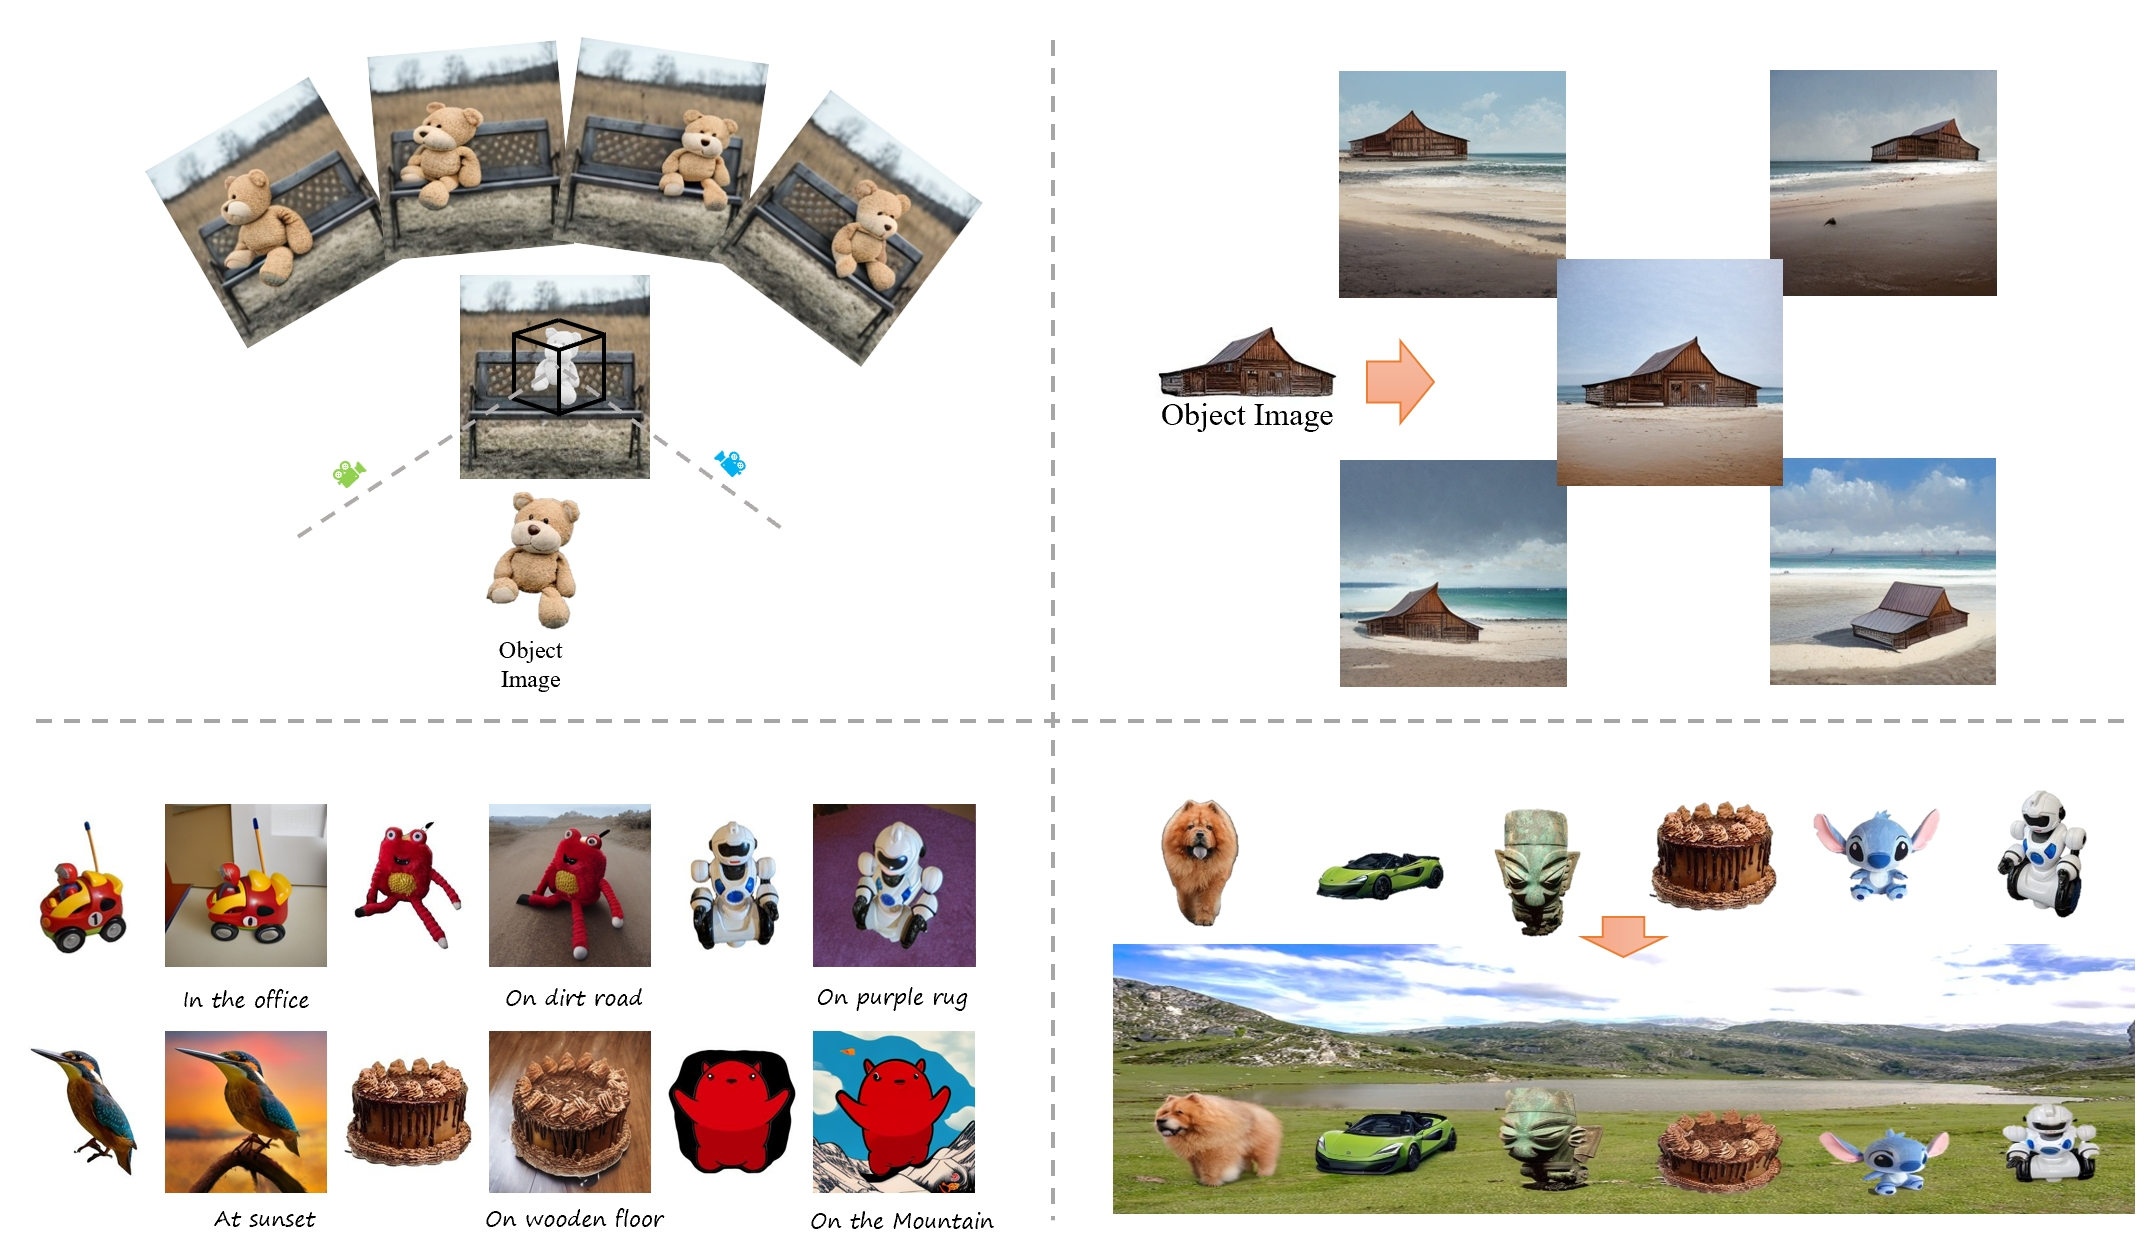
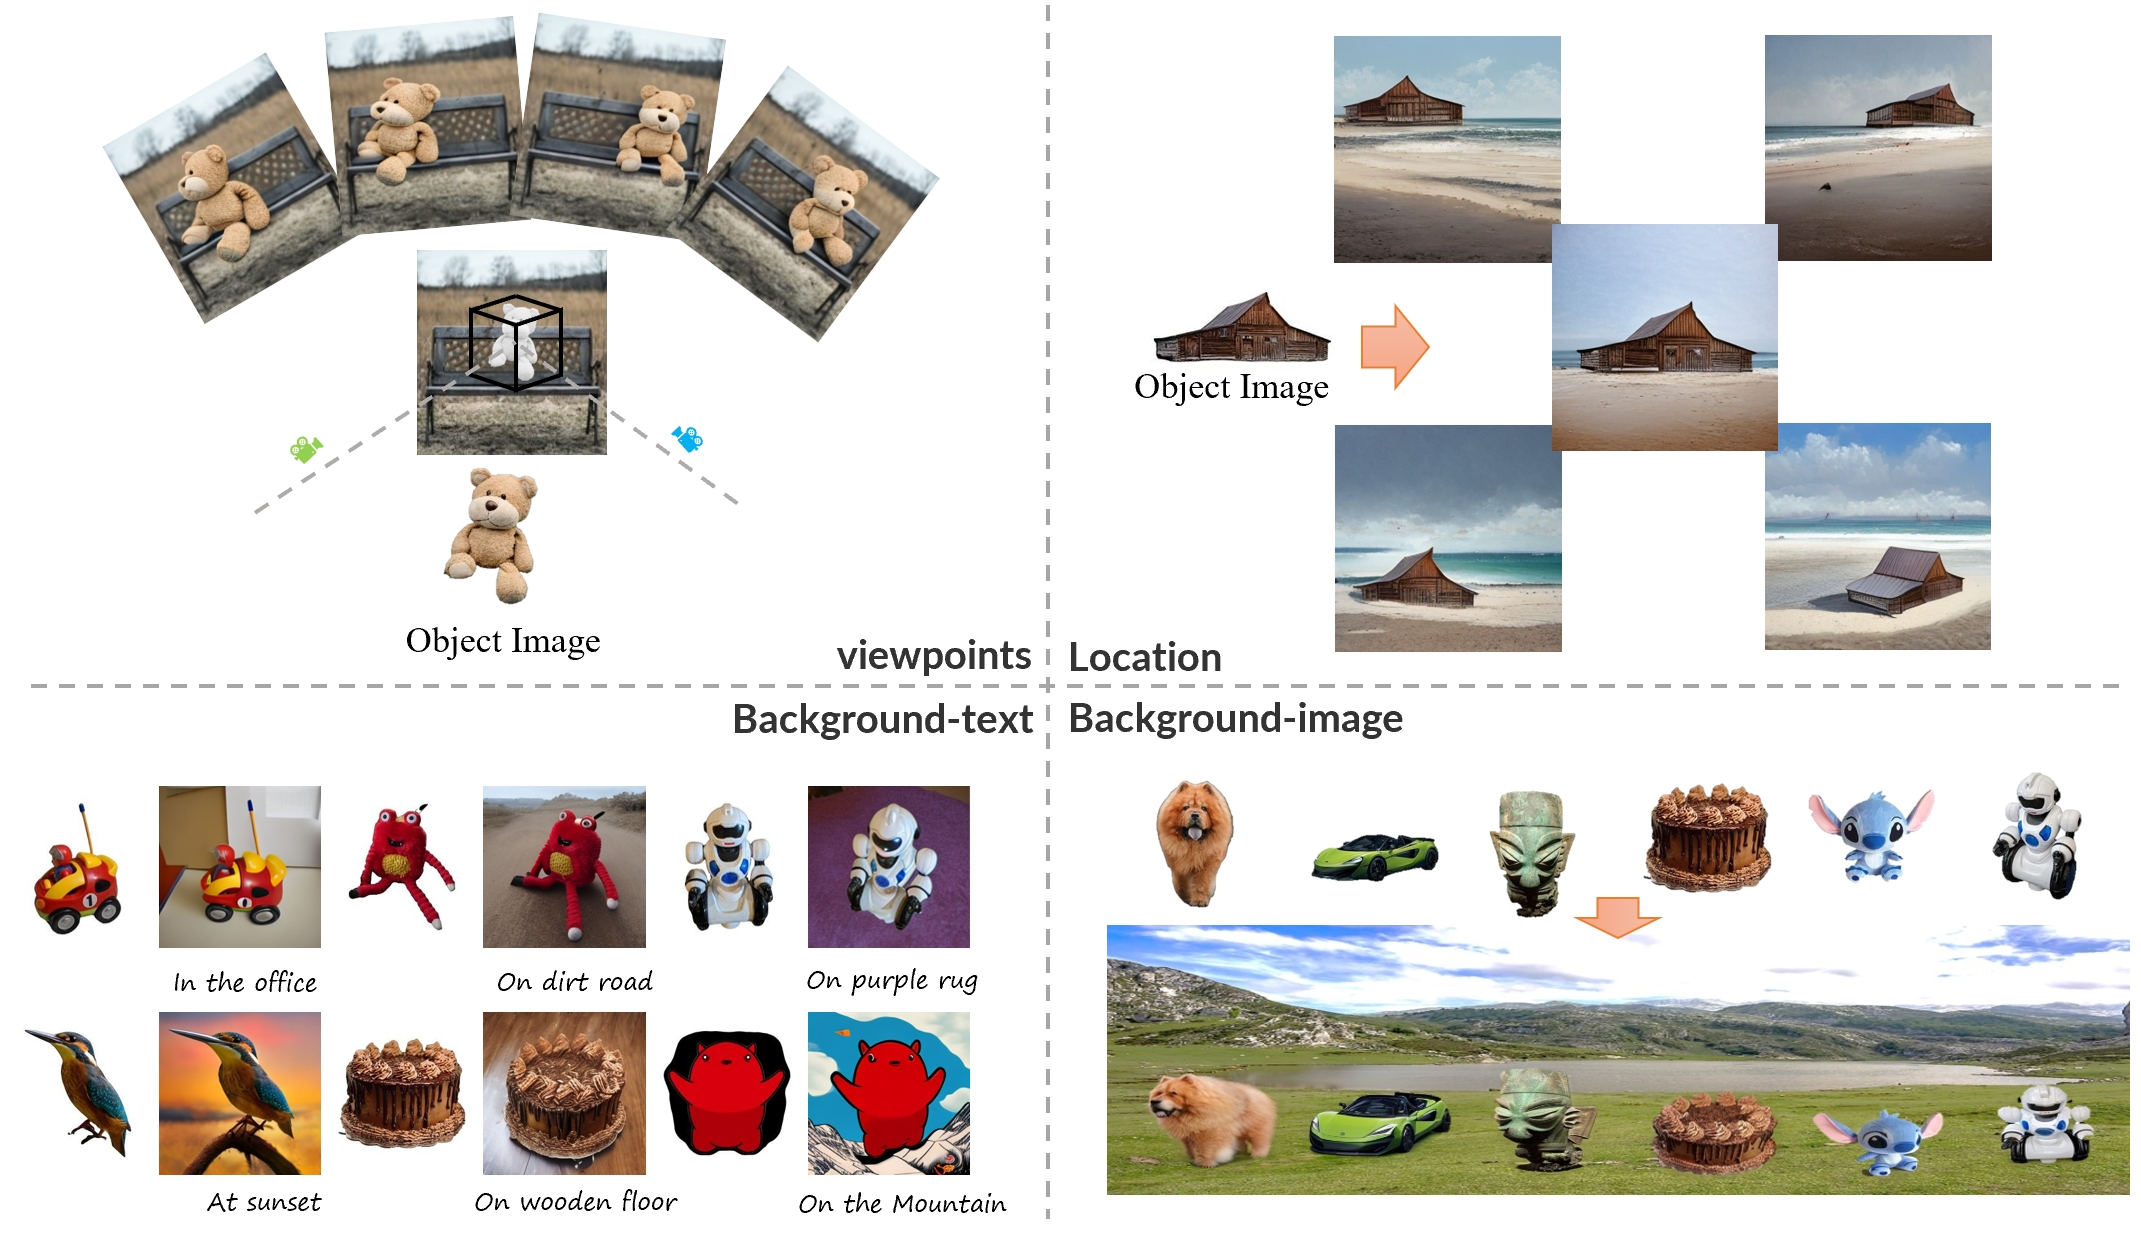
update

diff --git a/CustomNet/index.html b/CustomNet/index.html
@@ -194,7 +194,11 @@
 
     <div class="col-md-12 text-center">
         <span class="author-block">
-          <a href="https://github.com/ljzycmd">Mingdeng Cao</a><sup>1,2</sup>,</span>
+            
+          <a href="https://github.com/jiangyzy">Ziyang Yuan</a><sup>1,2</sup>,</span>
+        <span class="author-block">
+
+          <a href="https://github.com/ljzycmd">Mingdeng Cao</a><sup>2,3</sup>,</span>
         <span class="author-block">
           <a href="https://xinntao.github.io">Xintao Wang</a><sup>2&#9993</sup>,</span>
         <span class="author-block">
@@ -204,19 +208,15 @@
           <a href="https://scholar.google.com/citations?user=4oXBp9UAAAAJ">Ying Shan</a><sup>2</sup>,
         </span>
         <span class="author-block">
-          <a href="https://scholar.google.com/citations?hl=zh-CN&user=mk-F69UAAAAJ">Xiaohu Qie</a><sup>2</sup>,
-        </span>
-        <span class="author-block">
-          <a href="https://scholar.google.com/citations?user=JD-5DKcAAAAJ">Yinqiang Zheng</a><sup>1&#9993</sup>
+          <a href="https://scholar.google.com/citations?hl=en&amp;user=fYdxi2sAAAAJ">Chun Yuan</a><sup>1&#9993</sup>
         </span>
 
         <br>
-
-            <a target="_blank" href="https://arc.tencent.com/">
-            <image src="assets/imgs/ARC.svg" height="80px"> </a>
-                &nbsp; &nbsp; &nbsp;
             <a target="_blank" href="https://www.tsinghua.edu.cn/">
             <image src="assets/imgs/THU.jpg" height="37px"> </a>
+                &nbsp; &nbsp; &nbsp;
+            <a target="_blank" href="https://arc.tencent.com/">
+            <image src="assets/imgs/ARC.svg" height="80px"> </a>
                 &nbsp; &nbsp; &nbsp;
             <a target="_blank" href="https://www.u-tokyo.ac.jp/ja/index.html">
             <image src="assets/imgs/UTokyo.jpg" height="37px"> </a>
@@ -225,13 +225,19 @@
     </div>
 
 
+    <div class="col-md-6 col-md-offset-3">
+        <div class="content  text-align">
+            <p>
+                <font size="+2">
+                    We proposed <b>CustomNet</b>, a zero-shot customization method that can generate harmonious 
+                    customized images with explicit <b>Viewpoints, 
+                    Location, and Background(text/image) </b> controls simultaneously, while ensuring <b>identity preservation</b>.
+                </font>
+            </p>
+        </div>
+    </div>
 
 
-    <h2 class="content has-text-justified", style="text-align: center;"> 
-        <font size="+2">
-        We Utilize 3D prior for object customization generation with control of viewpoints, location, background.
-        </font>
-    </h2>
     <div class="col-md-10 col-md-offset-1">
         <div class="image-container">
             <div class="image-wrapper">
@@ -242,40 +248,44 @@
     </div>
 
 
+    <div class="col-md-6 col-md-offset-3">
+        <h2 class="content  text-center">
+            <b>Real world Objects Control</b>
+        </h2>
+    </div>
 
 
-
-<section class="hero is-light is-small">
     <div class="hero-body">
         <!-- image demo -->
-        <div class="container"> 
-        <h2 class="title is-6", style="text-align: center;"> Real world Objecs Control</h2>
-        <div id="results-carousel" class="carousel results-carousel">
-            <div class="item item-1">
-            <img src="assets/imgs/supp_3.png", width="370">
+        <div class="col-md-10 col-md-offset-1">
+            <div class="container"> 
+                <div id="results-carousel" class="carousel results-carousel">
+                    <div class="item item-1  text-center">
+                    <img src="assets/imgs/supp_4.png", width="1000">
+                    </div>
+                    <div class="item item-2  text-center">
+                    <img src="assets/imgs/supp_3.png", width="1000">
+                    </div>
+                    <div class="item item-3  text-center">
+                    <img src="assets/imgs/supp_7.png", width="1000">
+                    </div>
+                    <div class="item item-4  text-center">
+                    <img src="assets/imgs/supp_1.png", width="1000">
+                    </div>          
+                    <div class="item item-5  text-center">
+                    <img src="assets/imgs/supp_2.png", width="1000">
+                    </div>
+                    <div class="item item-6  text-center">
+                    <img src="assets/imgs/supp_5.png", width="1000">
+                    </div>
+                    <div class="item item-7  text-center">
+                    <img src="assets/imgs/supp_6.png", width="1000">
+                    </div>
+                    <div class="item item-8  text-center">
+                    <img src="assets/imgs/supp_8.png", width="1000">
+                    </div>
+                </div>
             </div>
-            <div class="item item-2">
-            <img src="assets/imgs/supp_4.png", width="370">
-            </div>
-            <div class="item item-3">
-            <img src="assets/imgs/supp_7.png", width="370">
-            </div>
-            <div class="item item-4">
-            <img src="assets/imgs/supp_1.png", width="370">
-            </div>          
-            <div class="item item-5">
-            <img src="assets/imgs/supp_2.png", width="370">
-            </div>
-            <div class="item item-6">
-            <img src="assets/imgs/supp_5.png", width="370">
-            </div>
-            <div class="item item-7">
-            <img src="assets/imgs/supp_6.png", width="370">
-            </div>
-            <div class="item item-8">
-            <img src="assets/imgs/supp_8.png", width="370">
-            </div>
-        </div>
         </div>
     </div>
 
@@ -311,9 +321,9 @@
 
 
     <div class="col-md-6 col-md-offset-3">
-        <div class="content has-text-justified">
+        <div class="content text-align: justify">
             <p>
-                <font size="+1">
+                <font size="+2">
                 Incorporating a customized object into image generation presents an attractive
                 feature in text-to-image generation. However, existing optimization-based and
                 encoder-based methods are hindered by drawbacks such as time-consuming optimization,
@@ -340,7 +350,7 @@
     
     <div class="col-md-8 col-md-offset-2 text-center">
         <h3>
-            <b><font size="+5">Method</font></b>
+            <b><font size="+5">Methods</font></b>
         </h3>
     </div>
 
@@ -356,13 +366,14 @@
     <div class="col-md-6 col-md-offset-3">
         <div class="content has-text-justified">
             <p>
-                <font size="+1">
+                <font size="+2">
                 Overview of our proposed CustomNet. CustomNet is able to simultaneously control viewpoint,
                 location, and background in a unified framework, thereby achieving harmonious customized
                 image generation while effectively preserving object identity and texture details. The background
                 generation can be controlled either through textual descriptions (the ‘Generation’ branch) or by providing
                 a specific user-defined image (the ‘Composition’ branch).
                 </font>
+                
             </p>
         </div>
     </div>
@@ -370,6 +381,8 @@
     <div class="col-md-10 col-md-offset-1">
         <div class="image-container">
             <div class="image-wrapper">
+                <br>
+                <br>
                 <img src="assets/imgs/data_pipeline.png" class="img-responsive", width="1000">
             </div>
         </div>
@@ -378,7 +391,7 @@
     <div class="col-md-6 col-md-offset-3">
         <div class="content has-text-justified">
             <p>
-                <font size="+1">
+                <font size="+2">
                 Data construction pipeline from 3D objects (a) and single image (b).
                     
                 </font>
@@ -405,7 +418,7 @@
     <div class="col-md-6 col-md-offset-3">
         <div class="content has-text-justified">
             <p>
-                <font size="+1">
+                <font size="+2">
                 Qualitative comparison. Our CustomNet demonstrates superior capacities in terms of
                 identity preservation, viewpoint control, and harmony of the customized image.
                 </font>

diff --git a/CustomNet/js/index.js b/CustomNet/js/index.js
@@ -31,7 +31,7 @@ $(document).ready(function() {
 
     var options = {
 			slidesToScroll: 1,
-			slidesToShow: 3,
+			slidesToShow: 1,
 			loop: true,
 			infinite: true,
 			autoplay: true,
